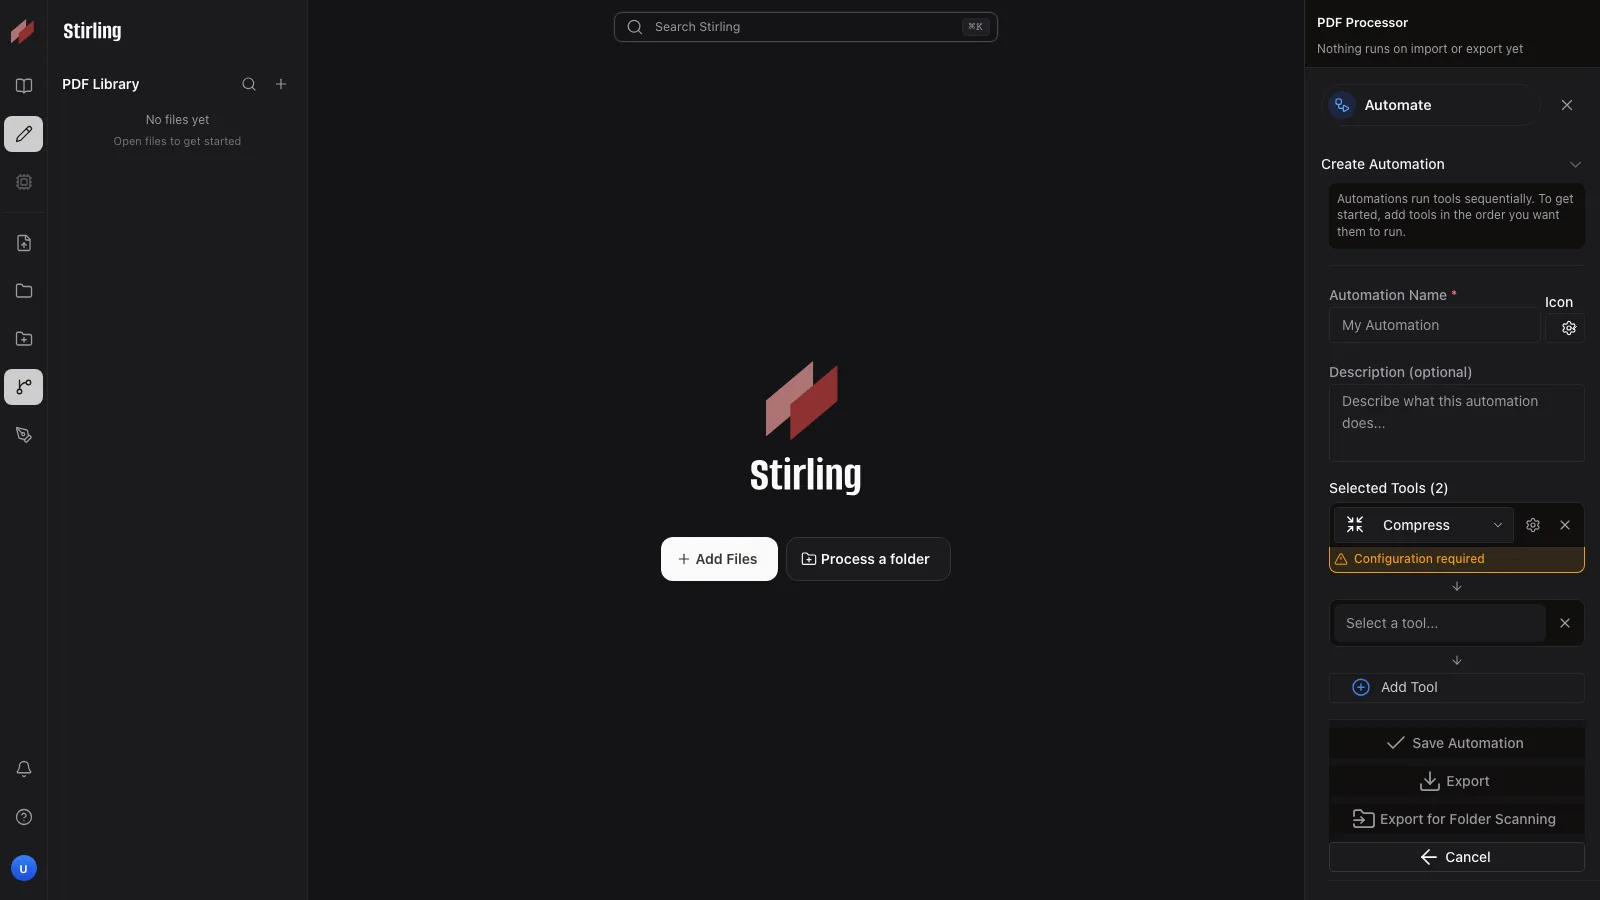
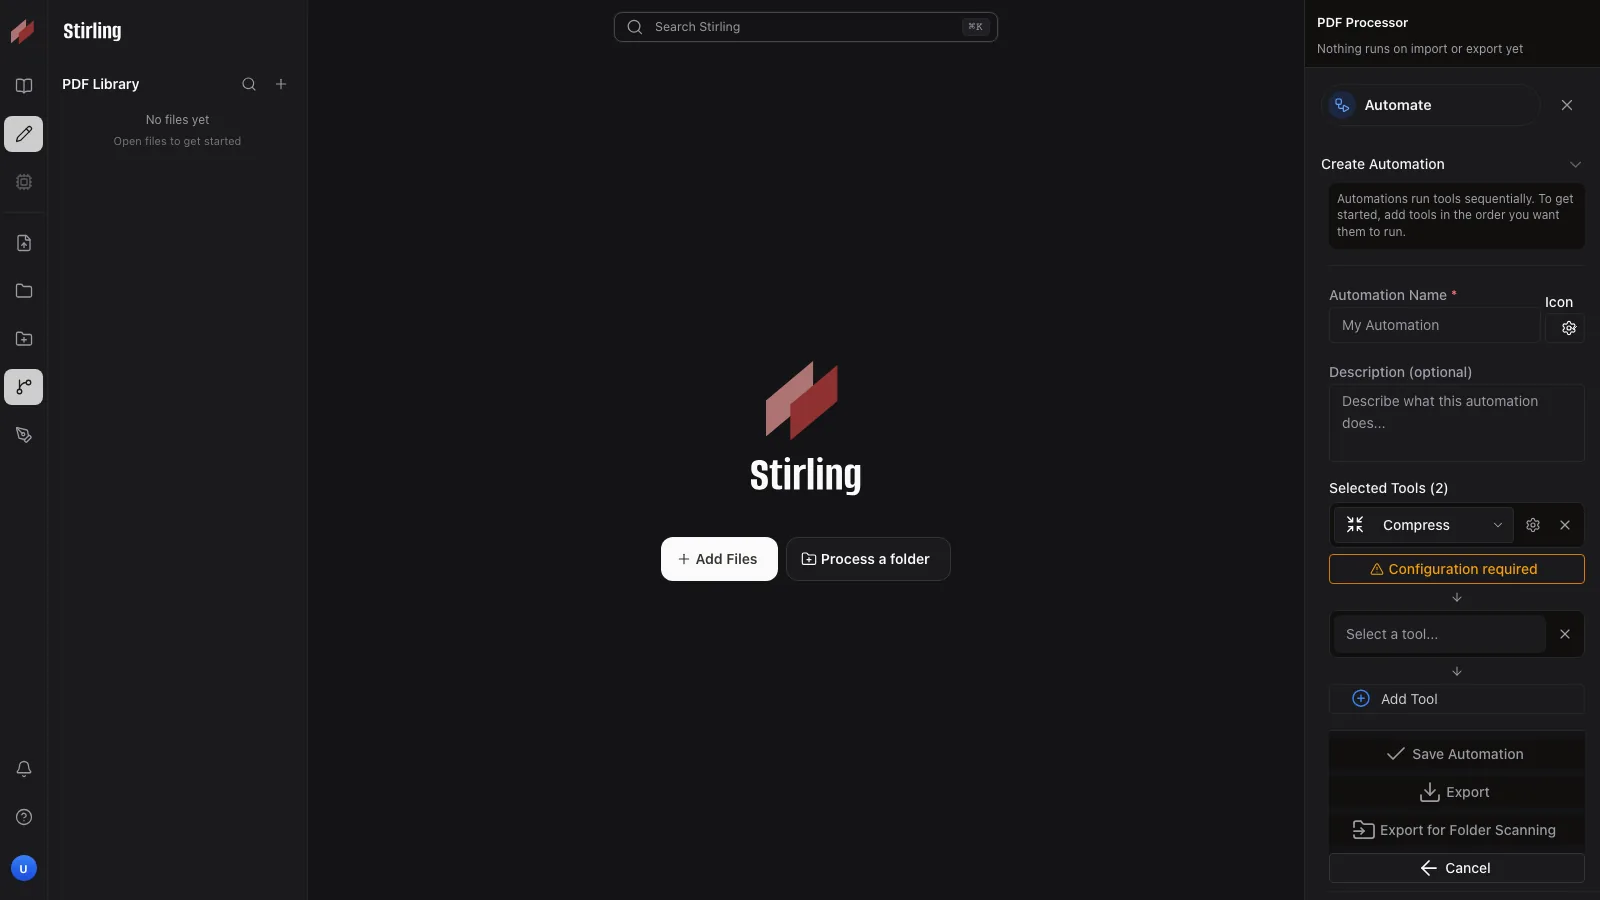
report: refresh automate walkthrough at 75f90e7 (system-consistent affordances)

diff --git a/reports/automate-ui-walkthrough.html b/reports/automate-ui-walkthrough.html
@@ -156,7 +156,7 @@
 <section class="summary hide" id="summary-pane"></section>
 
 <script id="data">
-window.__WALKTHROUGH__ = /*__DATA__*/{"feature": "Automate — builder & run UX rework", "branch": "fix/automate-ui-rework-polish", "generated": "2026-11-18", "views": [{"id": "01_selection", "title": "Selection — saved copy + suggested catalogue", "light": "assets/automate/01_selection_light.webp", "dark": "assets/automate/01_selection_dark.webp", "viewport": "1600x900", "notes": ["Saved entry copied from Suggested; kebab always visible (no hover-only reveal)", "Entry rows truncate long titles; tool chain badge uses accent tokens"]}, {"id": "02_entry_tooltip", "title": "Entry tooltip on hover", "light": "assets/automate/02_entry_tooltip_light.webp", "dark": "assets/automate/02_entry_tooltip_dark.webp", "viewport": "1600x900", "notes": ["Shows name, description and the tool chain with per-tool names", "Tooltip wraps the chain instead of clipping (min-width 400px removed, max 360px)"]}, {"id": "03_entry_menu", "title": "Saved entry menu", "light": "assets/automate/03_entry_menu_light.webp", "dark": "assets/automate/03_entry_menu_dark.webp", "viewport": "1600x900", "notes": ["Run, Edit, Copy, both exports and Delete in one menu", "Danger-styled Delete with a confirmation dialog downstream"]}, {"id": "04_delete_dialog", "title": "Delete confirmation", "light": "assets/automate/04_delete_dialog_light.webp", "dark": "assets/automate/04_delete_dialog_dark.webp", "viewport": "1600x900", "notes": ["Centered modal with the automation name interpolated", "Scrim in both themes; Cancel is the safe default"]}, {"id": "05_builder_empty", "title": "Builder — fresh automation", "light": "assets/automate/05_builder_empty_light.webp", "dark": "assets/automate/05_builder_empty_dark.webp", "viewport": "1600x900", "notes": ["Single empty tool row (was two), sticky footer keeps Save/Export/Cancel reachable", "Intro strip on the sunken surface token"]}, {"id": "06_builder_tool_selected", "title": "Builder — tool selected", "light": "assets/automate/06_builder_tool_selected_light.webp", "dark": "assets/automate/06_builder_tool_selected_dark.webp", "viewport": "1600x900", "notes": ["Selected tool renders as a chip with icon, name and chevron", "Unconfigured tool shows the clickable warning strip that opens its settings", "Step arrow between rows; remove X only while more than one row remains"]}, {"id": "07_tool_selector_dropdown", "title": "Tool selector dropdown", "light": "assets/automate/07_tool_selector_dropdown_light.webp", "dark": "assets/automate/07_tool_selector_dropdown_dark.webp", "viewport": "1600x900", "notes": ["Merges the quick/recommended section with the all-tools sections by subcategory", "Compress and the other common tools are selectable (were missing before)"]}, {"id": "08_icon_popover", "title": "Icon picker popover", "light": "assets/automate/08_icon_popover_light.webp", "dark": "assets/automate/08_icon_popover_dark.webp", "viewport": "1600x900", "notes": ["Grid options are keyboard-activatable (role=button, aria-pressed)", "Selected icon uses accent-fg; hover uses the shared hover token"]}, {"id": "09_customize_suggested", "title": "Customize — pre-made workflow as editable copy", "light": "assets/automate/09_customize_suggested_light.webp", "dark": "assets/automate/09_customize_suggested_dark.webp", "viewport": "1600x900", "notes": ["Reached via 'Edit a copy' on the run panel; pre-fills steps as configured", "Stays unsaved until Save — Cancel cannot leave an orphan copy in Saved"]}, {"id": "10_run_panel", "title": "Run panel", "light": "assets/automate/10_run_panel_light.webp", "dark": "assets/automate/10_run_panel_dark.webp", "viewport": "1600x900", "notes": ["Description shown under the name; step list with status glyphs", "Run disabled with the reason on hover/focus tooltip; sticky footer", "Edit a copy opens the builder pre-filled"]}, {"id": "11_rtl_selection", "title": "RTL — selection", "light": "assets/automate/11_rtl_selection_light.webp", "dark": "assets/automate/11_rtl_selection_dark.webp", "viewport": "1600x900", "notes": ["Document-direction flip; labels stay English because the stub advertises an en-US-only language list", "Nav shell and entry rows mirror"]}, {"id": "12_rtl_builder", "title": "RTL — builder with a tool selected", "light": "assets/automate/12_rtl_builder_tool_selected_light.webp", "dark": "assets/automate/12_rtl_builder_tool_selected_dark.webp", "viewport": "1600x900", "notes": ["Tool rows, warning strip and sticky footer mirror without clipping", "Remove/configure action icons stay beside the row"]}], "findings": {"visual": [{"severity": "low", "view": "10_run_panel", "title": "Error step glyph was a raw text span", "detail": "Completed steps used the Icon system while the error state rendered a literal ✕ character sized by font-size, drifting from the icon grid.", "fix": "Replaced with Icon name=\"x\" tinted by --c-danger. Fixed on this branch.", "fixed": true}, {"severity": "low", "view": "*", "title": "Light/dark parity verified programmatically", "detail": "This report's reviewer cannot view images, so parity was verified by capture-pair deltas and the theme lint: every color the branch touches routes through --c-* semantic tokens (accent-fg with primary fallback, surface-sunken, bg-raised, border-subtle, warning, danger, success). Dark applies on every captured view (mean luminance 244→25).", "fix": "No action needed; theme-lint and code-colors gates pass.", "fixed": true}], "ux": [{"severity": "med", "view": "04_delete_dialog", "title": "Destructive delete now asks first", "detail": "Delete previously removed the saved automation immediately from the kebab menu.", "fix": "Confirmation dialog with the entry name interpolated; danger-styled confirm; covered by a stubbed regression test.", "fixed": true}, {"severity": "med", "view": "09_customize_suggested", "title": "Cancel no longer orphans an edited copy", "detail": "Editing a pre-made workflow used to fork it into Saved on save; renaming used to duplicate. Both are fixed by an update-in-place save path plus a snapshot-based dirty check, so Cancel only prompts when something would actually be lost.", "fix": "Covered by stubbed tests: untouched edit cancels silently; rename updates in place; cancel leaves exactly one copy.", "fixed": true}, {"severity": "low", "view": "07_tool_selector_dropdown", "title": "Recommended tools were unreachable in the builder", "detail": "The selector read only the 'all' section, silently dropping Compress/Merge and the rest of the quick section.", "fix": "Sections merged by subcategory; regression test pins Compress as selectable.", "fixed": true}, {"severity": "low", "view": "05_builder_empty", "title": "Footer actions follow the scroll", "detail": "Save/Export/Cancel sit in a sticky footer so long tool chains don't push them off-screen; the selection step header is hidden while the builder is open so the draft cannot be collapsed away without asking.", "fix": "Shared StickyFooter component used by both the builder and the run panel.", "fixed": true}, {"severity": "low", "view": "*", "title": "Review method caveat", "detail": "The agent producing this report has no image input: state correctness is anchored by locator assertions in the capture spec (each shot waits on the real element for that state) and theme parity by the gates above; treat the images as the human's final visual check.", "fix": null, "fixed": false}]}}/*__END__*/;
+window.__WALKTHROUGH__ = /*__DATA__*/{"feature": "Automate — builder & run UX rework", "branch": "fix/automate-ui-rework-polish", "generated": "2026-11-18", "views": [{"id": "01_selection", "title": "Selection — saved copy + suggested catalogue", "light": "assets/automate/01_selection_light.webp", "dark": "assets/automate/01_selection_dark.webp", "viewport": "1600x900", "notes": ["Saved entry copied from Suggested; kebab always visible (no hover-only reveal)", "Entry rows truncate long titles; tool chain badge uses accent tokens"]}, {"id": "02_entry_tooltip", "title": "Entry tooltip on hover", "light": "assets/automate/02_entry_tooltip_light.webp", "dark": "assets/automate/02_entry_tooltip_dark.webp", "viewport": "1600x900", "notes": ["Rich help-card tooltip: name, description and the tool chain with per-tool names", "Wraps the chain instead of clipping (max 360px)"]}, {"id": "03_entry_menu", "title": "Saved entry menu", "light": "assets/automate/03_entry_menu_light.webp", "dark": "assets/automate/03_entry_menu_dark.webp", "viewport": "1600x900", "notes": ["Run, Edit, Copy, both exports and Delete in one menu", "Danger-styled Delete with a confirmation dialog downstream"]}, {"id": "04_delete_dialog", "title": "Delete confirmation", "light": "assets/automate/04_delete_dialog_light.webp", "dark": "assets/automate/04_delete_dialog_dark.webp", "viewport": "1600x900", "notes": ["Centered modal with the automation name interpolated", "Scrim in both themes; Cancel is the safe default"]}, {"id": "05_builder_empty", "title": "Builder — fresh automation", "light": "assets/automate/05_builder_empty_light.webp", "dark": "assets/automate/05_builder_empty_dark.webp", "viewport": "1600x900", "notes": ["Single empty tool row (was two), sticky footer keeps Save/Export/Cancel reachable", "Intro strip on the sunken surface token"]}, {"id": "06_builder_tool_selected", "title": "Builder — tool selected", "light": "assets/automate/06_builder_tool_selected_light.webp", "dark": "assets/automate/06_builder_tool_selected_dark.webp", "viewport": "1600x900", "notes": ["Selected tool renders as a chip with icon, name and chevron", "Unconfigured tool shows the standard warning Button — outlined amber, design-system radius and hover", "Step arrow between rows; remove X only while more than one row remains"]}, {"id": "07_tool_selector_dropdown", "title": "Tool selector dropdown", "light": "assets/automate/07_tool_selector_dropdown_light.webp", "dark": "assets/automate/07_tool_selector_dropdown_dark.webp", "viewport": "1600x900", "notes": ["Merges the quick/recommended section with the all-tools sections by subcategory", "Compress and the other common tools are selectable (were missing before)"]}, {"id": "08_icon_popover", "title": "Icon picker popover", "light": "assets/automate/08_icon_popover_light.webp", "dark": "assets/automate/08_icon_popover_dark.webp", "viewport": "1600x900", "notes": ["Grid options are keyboard-activatable (role=button, aria-pressed)", "Selected icon uses accent-fg; hover uses the shared hover token"]}, {"id": "09_customize_suggested", "title": "Customize — pre-made workflow as editable copy", "light": "assets/automate/09_customize_suggested_light.webp", "dark": "assets/automate/09_customize_suggested_dark.webp", "viewport": "1600x900", "notes": ["Reached via 'Edit a copy' on the run panel; pre-fills steps as configured", "Stays unsaved until Save — Cancel cannot leave an orphan copy in Saved"]}, {"id": "10_run_panel", "title": "Run panel", "light": "assets/automate/10_run_panel_light.webp", "dark": "assets/automate/10_run_panel_dark.webp", "viewport": "1600x900", "notes": ["Description shown under the name; step list with Icon-system status glyphs", "Run disabled with the reason on hover/focus tooltip; sticky footer", "Edit a copy opens the builder pre-filled"]}, {"id": "11_rtl_selection", "title": "RTL — selection", "light": "assets/automate/11_rtl_selection_light.webp", "dark": "assets/automate/11_rtl_selection_dark.webp", "viewport": "1600x900", "notes": ["Document-direction flip; labels stay English because the stub advertises an en-US-only language list", "Nav shell and entry rows mirror"]}, {"id": "12_rtl_builder", "title": "RTL — builder with a tool selected", "light": "assets/automate/12_rtl_builder_tool_selected_light.webp", "dark": "assets/automate/12_rtl_builder_tool_selected_dark.webp", "viewport": "1600x900", "notes": ["Tool rows, warning button and sticky footer mirror without clipping", "Remove/configure action icons stay beside the row"]}], "findings": {"visual": [{"severity": "med", "view": "06_builder_tool_selected", "title": "Warning strip was a hand-rolled seam, not a system control", "detail": "'Configuration required' was a raw button welded under the row card: 1px solid warning border, borderTop:none, seam radius, custom padding — visually louder and off-grid compared to the app's banners.", "fix": "Replaced with the standard warning-accent Button (outlined amber, system radius/hover/focus); row card now keeps one uniform radius. Fixed on this branch.", "fixed": true}, {"severity": "med", "view": "06_builder_tool_selected", "title": "Row-action hints used the rich help-card tooltip", "detail": "Configure/Remove icons opened the heavy help-card tooltip (bordered, shadowed, fixed-position portal) while every comparable action icon in the app (files page, viewer, page tracks) uses the compact label tooltip.", "fix": "Swapped to Mantine's Tooltip label withArrow — the app's general pattern (260 call sites vs 36 for the rich card).", "fixed": true}, {"severity": "low", "view": "10_run_panel", "title": "Error step glyph was a raw text span", "detail": "Completed steps used the Icon system while the error state rendered a literal ✕ character sized by font-size, drifting from the icon grid.", "fix": "Replaced with Icon name=\"x\" tinted by --c-danger. Fixed on this branch.", "fixed": true}, {"severity": "low", "view": "*", "title": "Light/dark parity verified programmatically", "detail": "This report's reviewer cannot view images, so parity was verified by capture-pair deltas and the theme lint: every color the branch touches routes through --c-* semantic tokens (accent-fg with primary fallback, surface-sunken, bg-raised, border-subtle, warning, danger, success). Dark applies on every captured view (mean luminance 244→25).", "fix": "No action needed; theme-lint and code-colors gates pass.", "fixed": true}], "ux": [{"severity": "med", "view": "04_delete_dialog", "title": "Destructive delete now asks first", "detail": "Delete previously removed the saved automation immediately from the kebab menu.", "fix": "Confirmation dialog with the entry name interpolated; danger-styled confirm; covered by a stubbed regression test.", "fixed": true}, {"severity": "med", "view": "09_customize_suggested", "title": "Cancel no longer orphans an edited copy", "detail": "Editing a pre-made workflow used to fork it into Saved on save; renaming used to duplicate. Both are fixed by an update-in-place save path plus a snapshot-based dirty check, so Cancel only prompts when something would actually be lost.", "fix": "Covered by stubbed tests: untouched edit cancels silently; rename updates in place; cancel leaves exactly one copy.", "fixed": true}, {"severity": "low", "view": "07_tool_selector_dropdown", "title": "Recommended tools were unreachable in the builder", "detail": "The selector read only the 'all' section, silently dropping Compress/Merge and the rest of the quick section.", "fix": "Sections merged by subcategory; regression test pins Compress as selectable.", "fixed": true}, {"severity": "low", "view": "05_builder_empty", "title": "Footer actions follow the scroll", "detail": "Save/Export/Cancel sit in a sticky footer so long tool chains don't push them off-screen; the selection step header is hidden while the builder is open so the draft cannot be collapsed away without asking.", "fix": "Shared StickyFooter component used by both the builder and the run panel.", "fixed": true}, {"severity": "low", "view": "*", "title": "Review method caveat", "detail": "The agent producing this report has no image input: state correctness is anchored by locator assertions in the capture spec (each shot waits on the real element for that state) and theme parity by the gates above; treat the images as the human's final visual check.", "fix": null, "fixed": false}]}}/*__END__*/;
 </script>
 <script>
 (function () {
